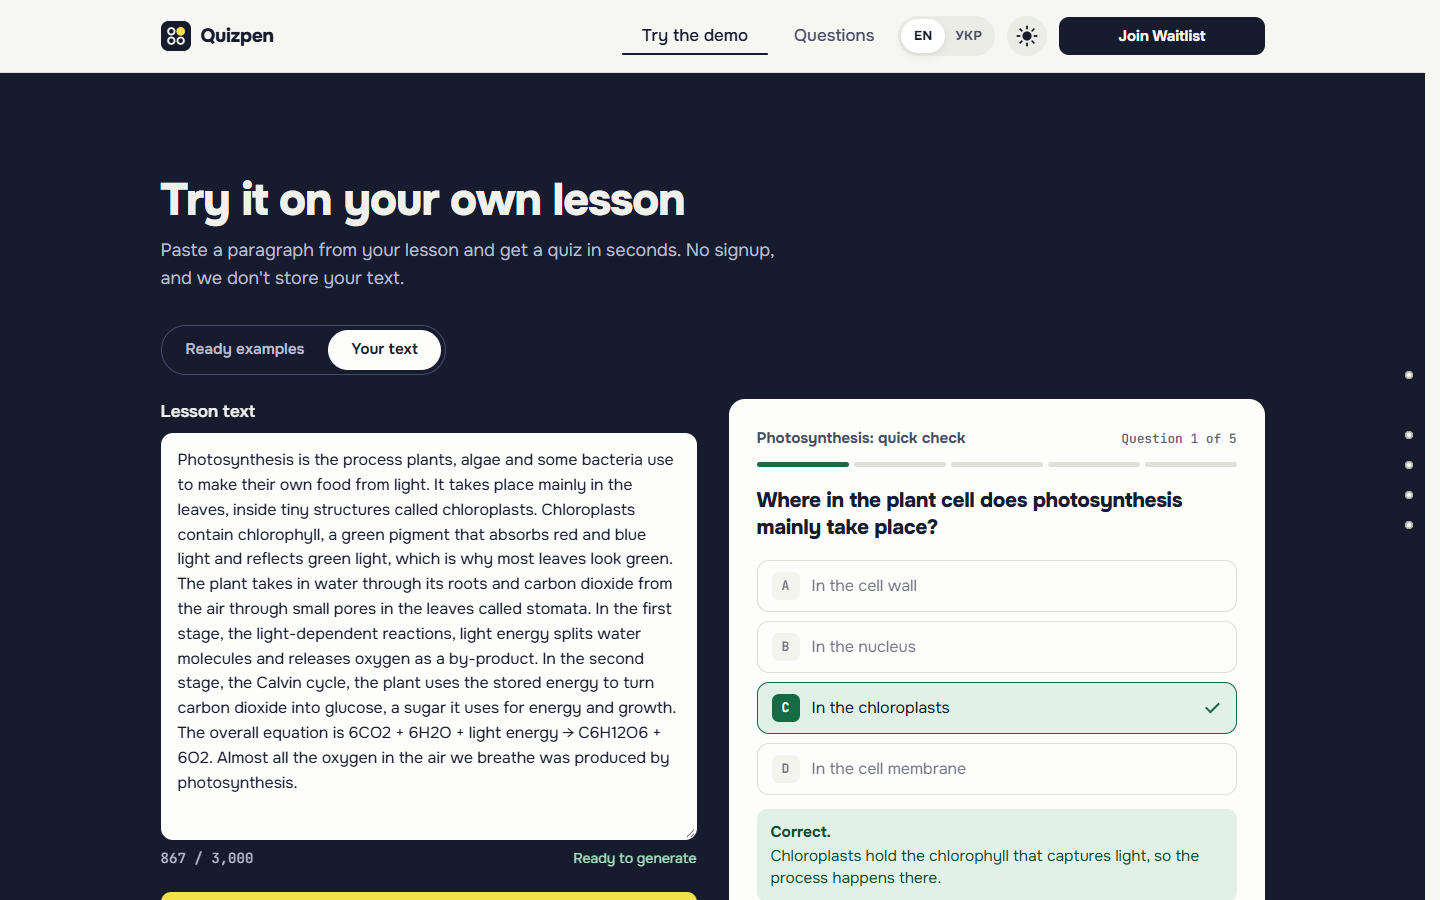
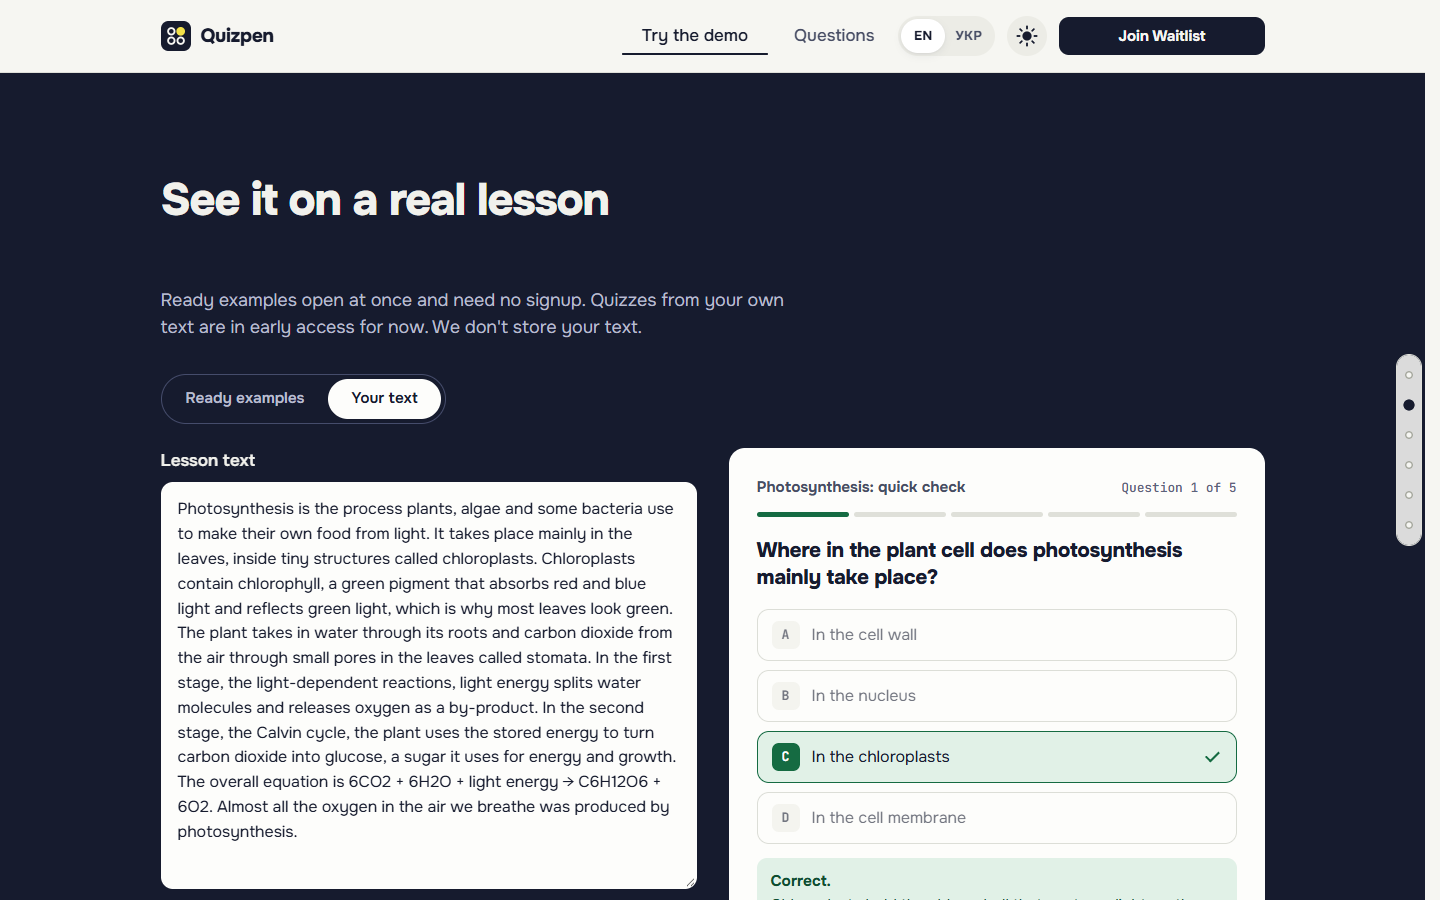
Rail dots readable on the dark band; early access sits at the top of the panel on phones; fresh screenshots

Changed region(s): [[0.0938, 0.1867, 0.9062, 1.0], [0.9688, 0.3733, 1.0, 0.6222]]

diff --git a/web/demo-modes.css b/web/demo-modes.css
@@ -69,9 +69,10 @@
 .sample-text:focus-visible { outline: 2.5px solid var(--accent); outline-offset: 2px; }
 
 /* No layout shift when the first question replaces the placeholder: the panel starts at the height of a
-   question screen (measured with the longest sample quizzes: 840px at 375 wide, 622px from 640 up).
+   question screen from 640 up (622px, measured with the longest sample quizzes). Below 640 it starts at 600px:
+   the panel sits under the form there, so its growth moves only content that is off screen.
    app.js keeps the panel from shrinking afterwards (a ratchet reset on width change). */
-.quiz-panel { display: flex; flex-direction: column; min-height: 840px; }
+.quiz-panel { display: flex; flex-direction: column; min-height: 600px; }
 @media (min-width: 640px) { .quiz-panel { min-height: 622px; } }
 .quiz-empty { flex: 1 1 auto; }
 .quiz-body:has(> .ea, > .demo-busy) { flex: 1 1 auto; display: flex; flex-direction: column; }
@@ -82,7 +83,8 @@
 .quiz-note .link-btn { padding: 0; font-size: inherit; font-weight: 600; color: inherit; }
 
 /* Early access (own text while generation is closed) */
-.ea { display: grid; align-content: center; gap: 12px; min-height: 370px; }
+.ea { display: grid; align-content: start; gap: 12px; padding-top: 8px; }
+@media (min-width: 640px) { .ea { align-content: center; min-height: 370px; padding-top: 0; } }
 .ea-title { font-weight: 700; font-size: 1.2rem; line-height: 1.3; }
 .ea-text { color: var(--ink-2); }
 .ea-form .field-msg:not(:empty) { margin-top: 8px; }

diff --git a/web/nav.css b/web/nav.css
@@ -45,7 +45,12 @@ html:not(.js) .nav-burger { display: none; }
     transform: translateY(-50%);
   }
 }
-.nav-rail-links { list-style: none; margin: 0; padding: 6px 0; display: flex; flex-direction: column; gap: 2px; }
+/* A paper pill behind the dots keeps them visible over the dark demo band too. */
+.nav-rail-links {
+  list-style: none; margin: 0; padding: 6px 0; display: flex; flex-direction: column; gap: 2px;
+  background: color-mix(in srgb, var(--paper) 88%, transparent); border-radius: 999px;
+  box-shadow: 0 0 0 1px var(--line); backdrop-filter: blur(6px);
+}
 .nav-rail-link {
   position: relative; display: grid; place-items: center;
   width: 24px; height: 28px; text-decoration: none; color: var(--ink); border-radius: 999px;
